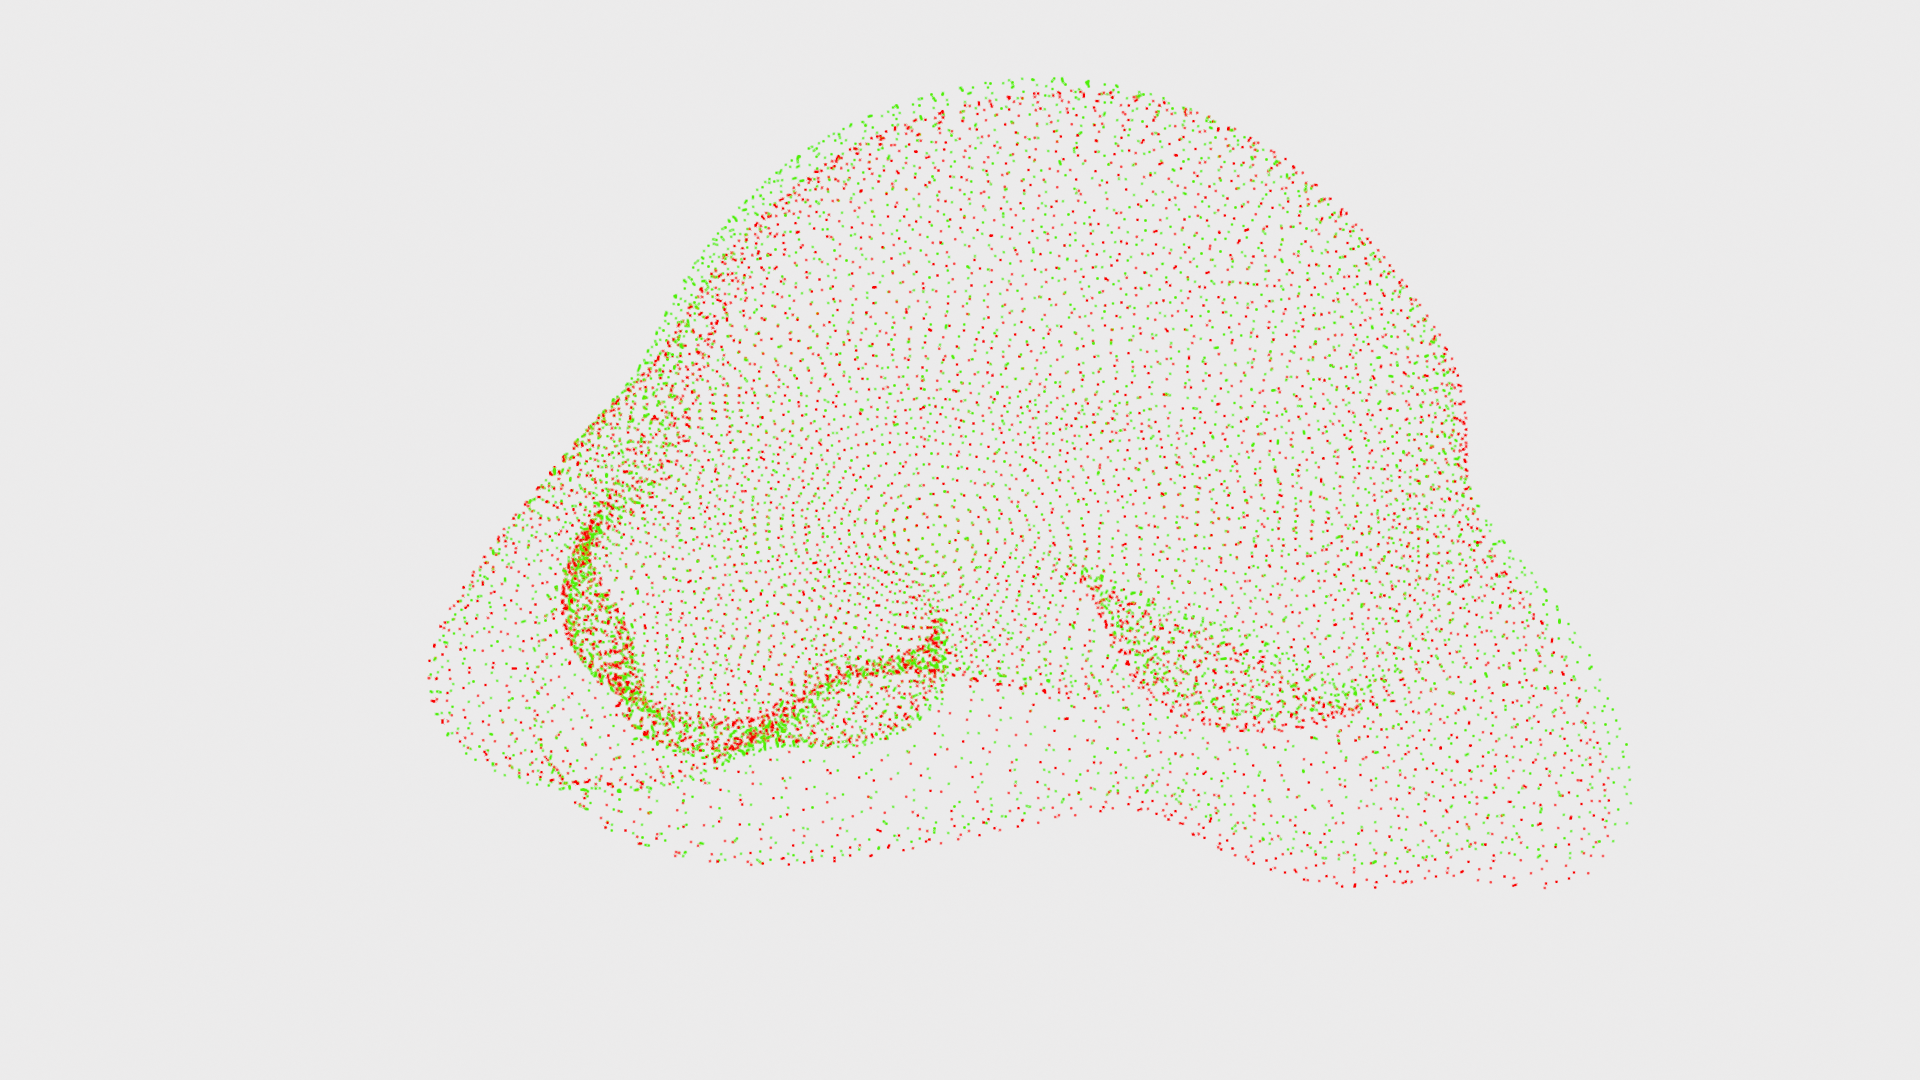
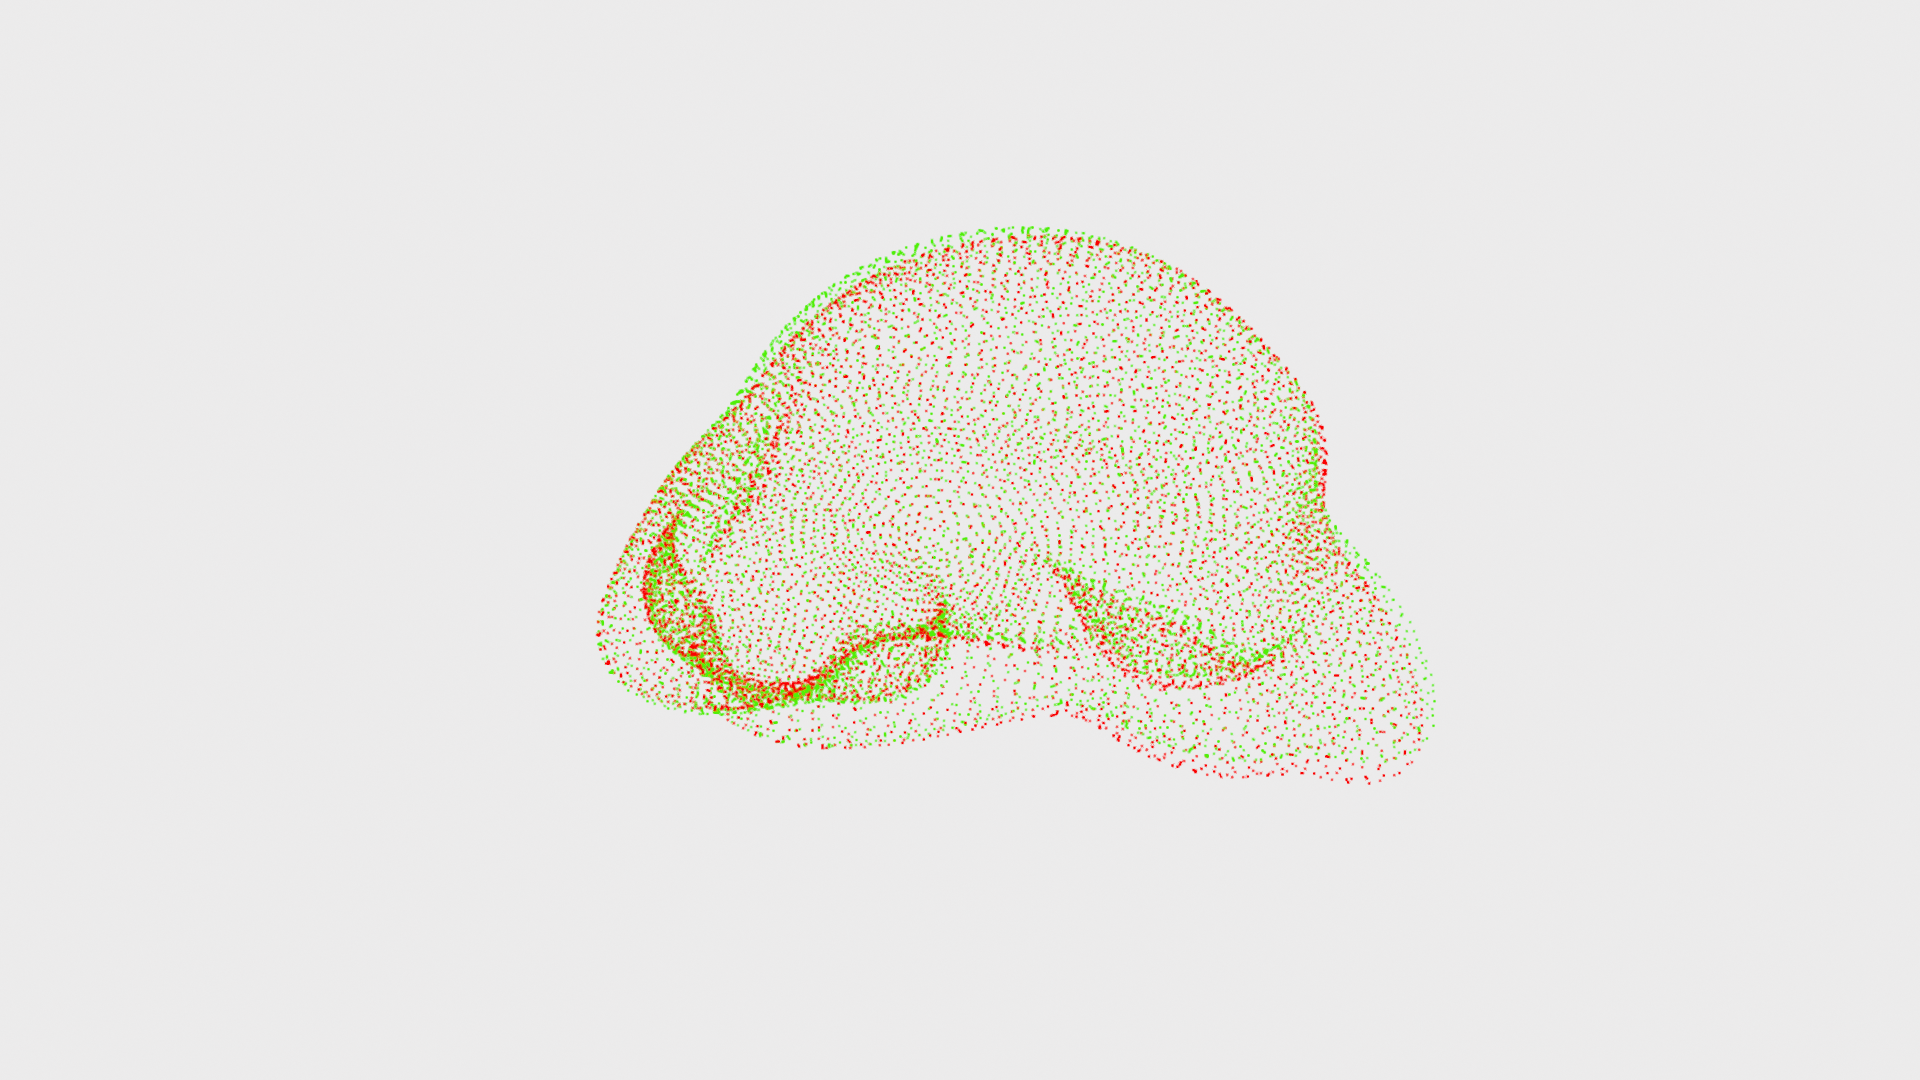
legend added

Changed region(s): [[0.2188, 0.0611, 0.8438, 0.7639], [0.6562, 0.7333, 0.8125, 0.7944]]

diff --git a/Pose_Evaluation/visualizer.py b/Pose_Evaluation/visualizer.py
@@ -85,6 +85,13 @@ class TransformationVisualizer:
 import open3d as o3d
 import numpy as np
 import yaml
+import imageio
+from PIL import Image, ImageDraw, ImageFont
+from open3d.visualization import rendering
+
+import open3d as o3d
+import numpy as np
+import yaml
 from PIL import Image, ImageDraw, ImageFont
 import imageio
 from open3d.visualization import rendering
@@ -136,7 +143,48 @@ class AlignmentVisualizer:
 
         return pcd_gt, pcd_pred, transformed_gt, transformed_pred
 
-    def save_alignment_image(self, output_path, frame_index=0, width=1920, height=1080, zoomed=False, zoom_factor=0.3):
+    def _add_legend(self, img, text_block=None):
+        draw = ImageDraw.Draw(img)
+
+        try:
+            font = ImageFont.truetype("DejaVuSans-Bold.ttf", 30)
+        except:
+            font = ImageFont.load_default()
+
+        # Legend items
+        legend_items = [
+            ("Ground Truth", (255, 0, 0)),
+            ("Prediction", (0, 255, 0))
+        ]
+
+        # Calculate max width and total height
+        max_text_width = max([draw.textlength(label, font=font) for label, _ in legend_items])
+        swatch_size = 40
+        padding = 10
+        spacing = 8
+        total_height = len(legend_items) * (swatch_size + spacing)
+
+        # Position: bottom-left corner
+        img_width, img_height = img.size
+        x = padding
+        y = img_height - total_height - padding
+
+        for label, color in legend_items:
+            draw.rectangle([x, y, x + swatch_size, y + swatch_size], fill=color)
+            draw.text((x + swatch_size + 10, y), label, fill=(0, 0, 0), font=font)
+            y += swatch_size + spacing
+
+        # Draw additional annotation block above the legend (if any)
+        if text_block:
+            lines = text_block.strip().split("\n")[::-1]  # draw upwards
+            y = img_height - total_height - padding - len(lines)*(font.size + 5) - 10
+            for line in lines[::-1]:
+                draw.text((padding, y), line, font=font, fill=(0, 0, 0))
+                y += font.size + 5
+
+        return img
+
+    def save_alignment_image(self, output_path, frame_index=0, width=1920, height=1080, zoom_factor=1.0, annotate=False, errors=None):
         pcd_gt, pcd_pred, transformed_gt, transformed_pred = self._get_transformed_pcds(frame_index)
 
         renderer = rendering.OffscreenRenderer(width, height)
@@ -152,32 +200,34 @@ class AlignmentVisualizer:
         all_points = np.vstack((transformed_gt, transformed_pred))
         center = np.mean(all_points, axis=0)
         radius = np.linalg.norm(np.max(all_points, axis=0) - np.min(all_points, axis=0))
-        distance = radius * zoom_factor if zoomed else radius * 2.5
+        distance = radius * zoom_factor
         eye = center + np.array([distance, distance, distance])
         scene.camera.look_at(center, eye, [0, 0, 1])
 
         img = renderer.render_to_image()
-        o3d.io.write_image(output_path, img)
-        print(f"[✓] Saved {'zoomed' if zoomed else 'full'} view to {output_path}")
+        np_img = np.asarray(img)
+        pil_img = Image.fromarray(np_img)
+
+        if annotate and errors:
+            text_block = f"Frame: {frame_index}\nRotation Error: {errors['Rotation Error (deg)'][frame_index]:.2f}°\n"
+            text_block += f"Translation Error: {errors['Translation Error (m)'][frame_index]:.4f}m\n"
+            text_block += f"ADD: {errors['ADD (m)'][frame_index]:.4f}m"
+            pil_img = self._add_legend(pil_img, text_block=text_block)
+
+        pil_img.save(output_path)
+        print(f"[✓] Saved image to {output_path}")
 
     def save_annotated_image(self, base_img_path, output_path, frame_index, errors):
         img = Image.open(base_img_path)
-        draw = ImageDraw.Draw(img)
-        try:
-            font = ImageFont.truetype("DejaVuSans-Bold.ttf", 30)
-        except:
-            font = ImageFont.load_default()
-
-        text = f"Frame: {frame_index}\n"
-        text += f"Rotation Error: {errors['Rotation Error (deg)'][frame_index]:.2f}°\n"
-        text += f"Translation Error: {errors['Translation Error (m)'][frame_index]:.4f}m\n"
-        text += f"ADD: {errors['ADD (m)'][frame_index]:.4f}m"
-
-        draw.text((50, 50), text, font=font, fill=(0, 0, 0))
+        text_block = f"Frame: {frame_index}\n"
+        text_block += f"Rotation Error: {errors['Rotation Error (deg)'][frame_index]:.2f}°\n"
+        text_block += f"Translation Error: {errors['Translation Error (m)'][frame_index]:.4f}m\n"
+        text_block += f"ADD: {errors['ADD (m)'][frame_index]:.4f}m"
+        img = self._add_legend(img, text_block=text_block)
         img.save(output_path)
         print(f"[✓] Saved annotated image to {output_path}")
 
-    def save_orbit_gif(self, frame_index=0, output_path="orbit.gif", n_frames=36, zoom_factor=0.4):
+    def save_orbit_gif(self, frame_index=0, output_path="orbit.gif", n_frames=36, zoom_factor=1.5):
         pcd_gt, pcd_pred, transformed_gt, transformed_pred = self._get_transformed_pcds(frame_index)
 
         renderer = rendering.OffscreenRenderer(640, 480)
@@ -193,14 +243,16 @@ class AlignmentVisualizer:
         center = np.mean(all_points, axis=0)
         radius = np.linalg.norm(np.max(all_points, axis=0) - np.min(all_points, axis=0)) * zoom_factor
 
-        images = []
+        frames = []
         for i in range(n_frames):
             theta = (2 * np.pi * i) / n_frames
             eye = center + radius * np.array([np.cos(theta), np.sin(theta), 0.5])
             scene.camera.look_at(center, eye, [0, 0, 1])
             img = renderer.render_to_image()
             np_img = np.asarray(img)
-            images.append(np_img)
+            pil_img = Image.fromarray(np_img)
+            pil_img = self._add_legend(pil_img)
+            frames.append(np.array(pil_img))
 
-        imageio.mimsave(output_path, images, fps=12)
-        print(f"[\u2713] Saved orbiting camera GIF to {output_path}")
+        imageio.mimsave(output_path, frames, fps=12)
+        print(f"[✓] Saved orbiting camera GIF to {output_path}")

diff --git a/Pose_Evaluation/main.py b/Pose_Evaluation/main.py
@@ -36,15 +36,14 @@ if __name__ == "__main__":
     visualizer_3d.save_alignment_image(
         output_path=f"plots/frame_{frame_idx}_zoomed.png",
         frame_index=frame_idx,
-        zoomed=True,
         zoom_factor=0.3  # <- tighter zoom
     )
 
     # Save full view
     visualizer_3d.save_alignment_image(
-        output_path=f"plots/frame_{frame_idx}_full.png",
+        output_path=f"plots/frame_{frame_idx}_zoomed.png",
         frame_index=frame_idx,
-        zoomed=False
+        zoom_factor=0.4
     )
 
     # Annotate the zoomed view
